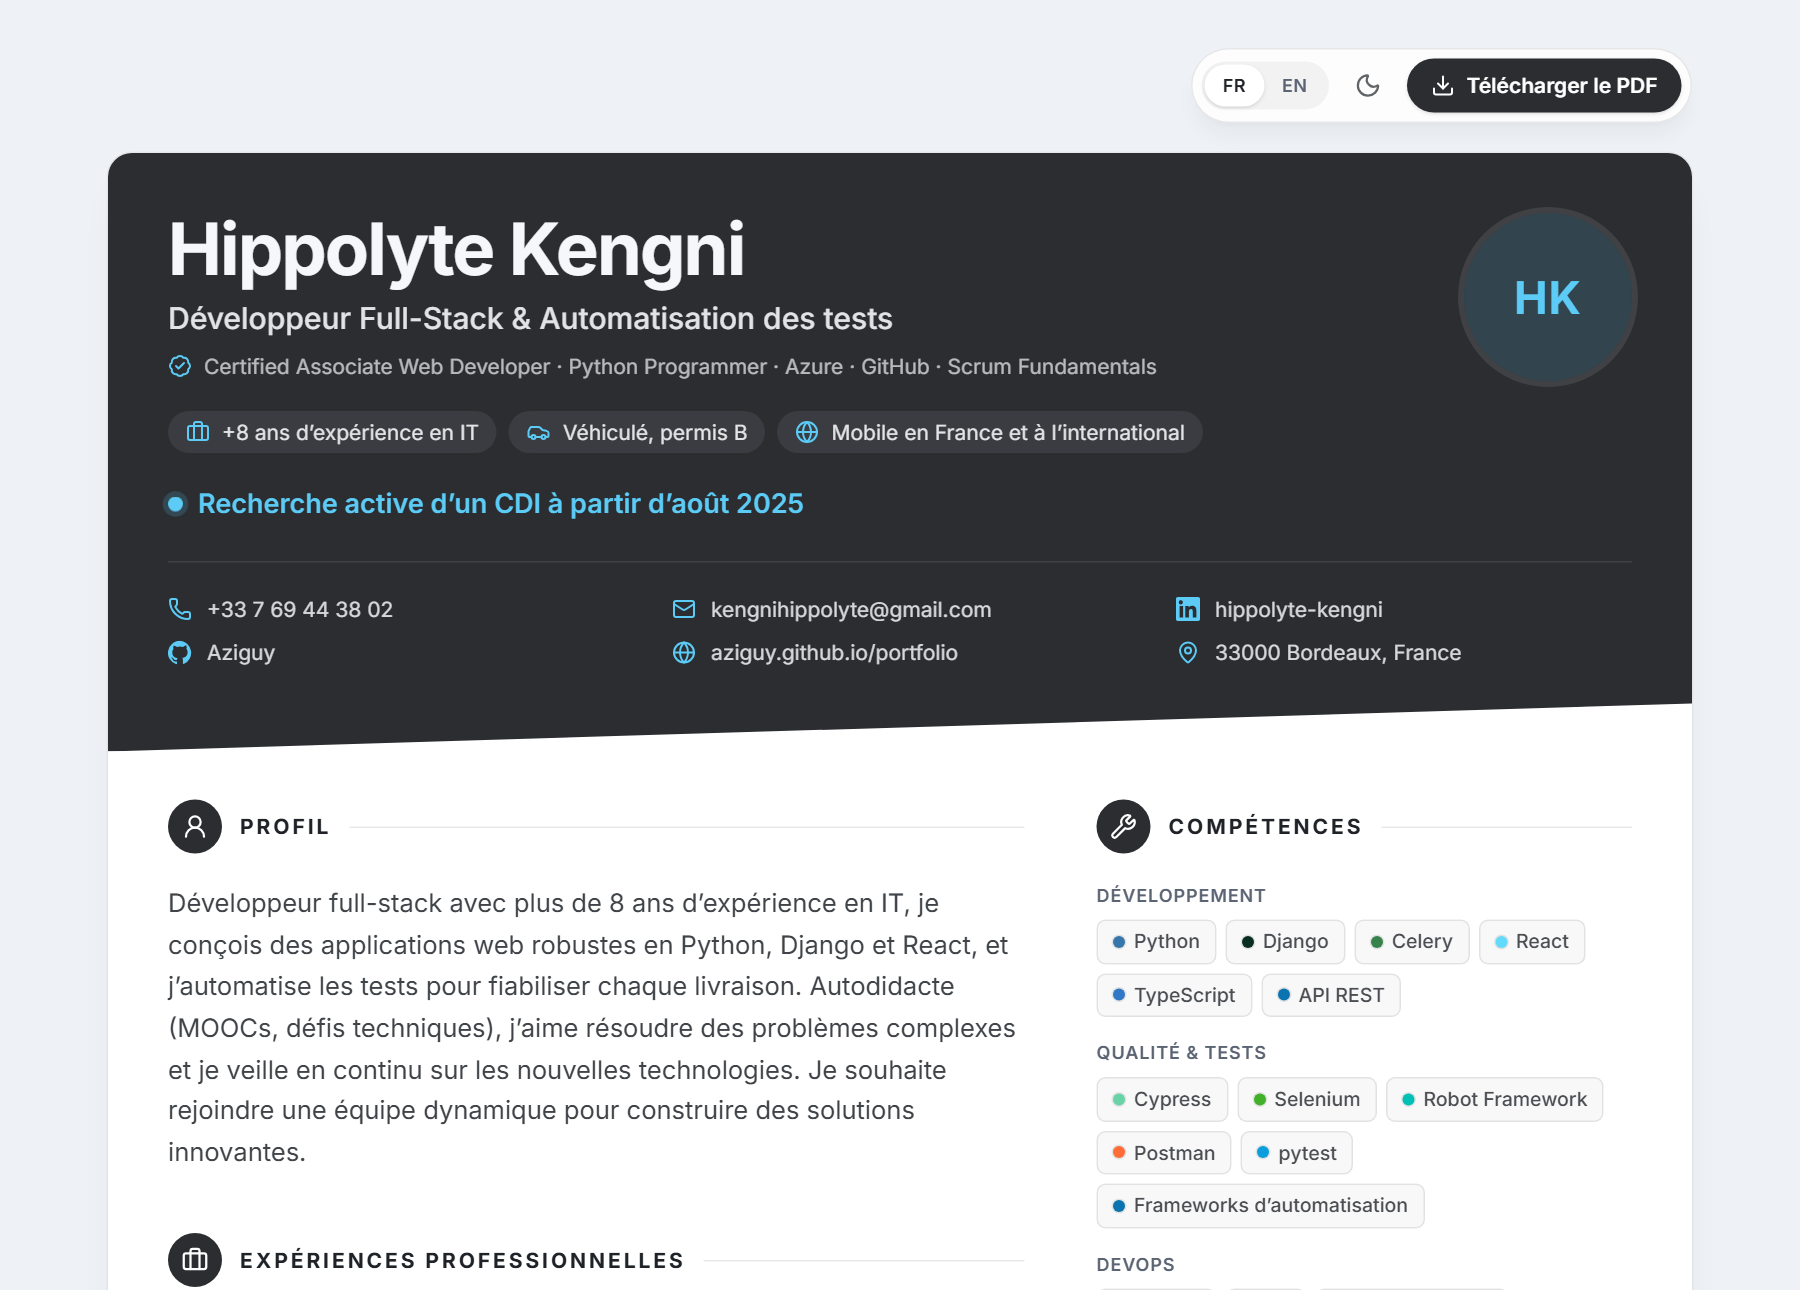
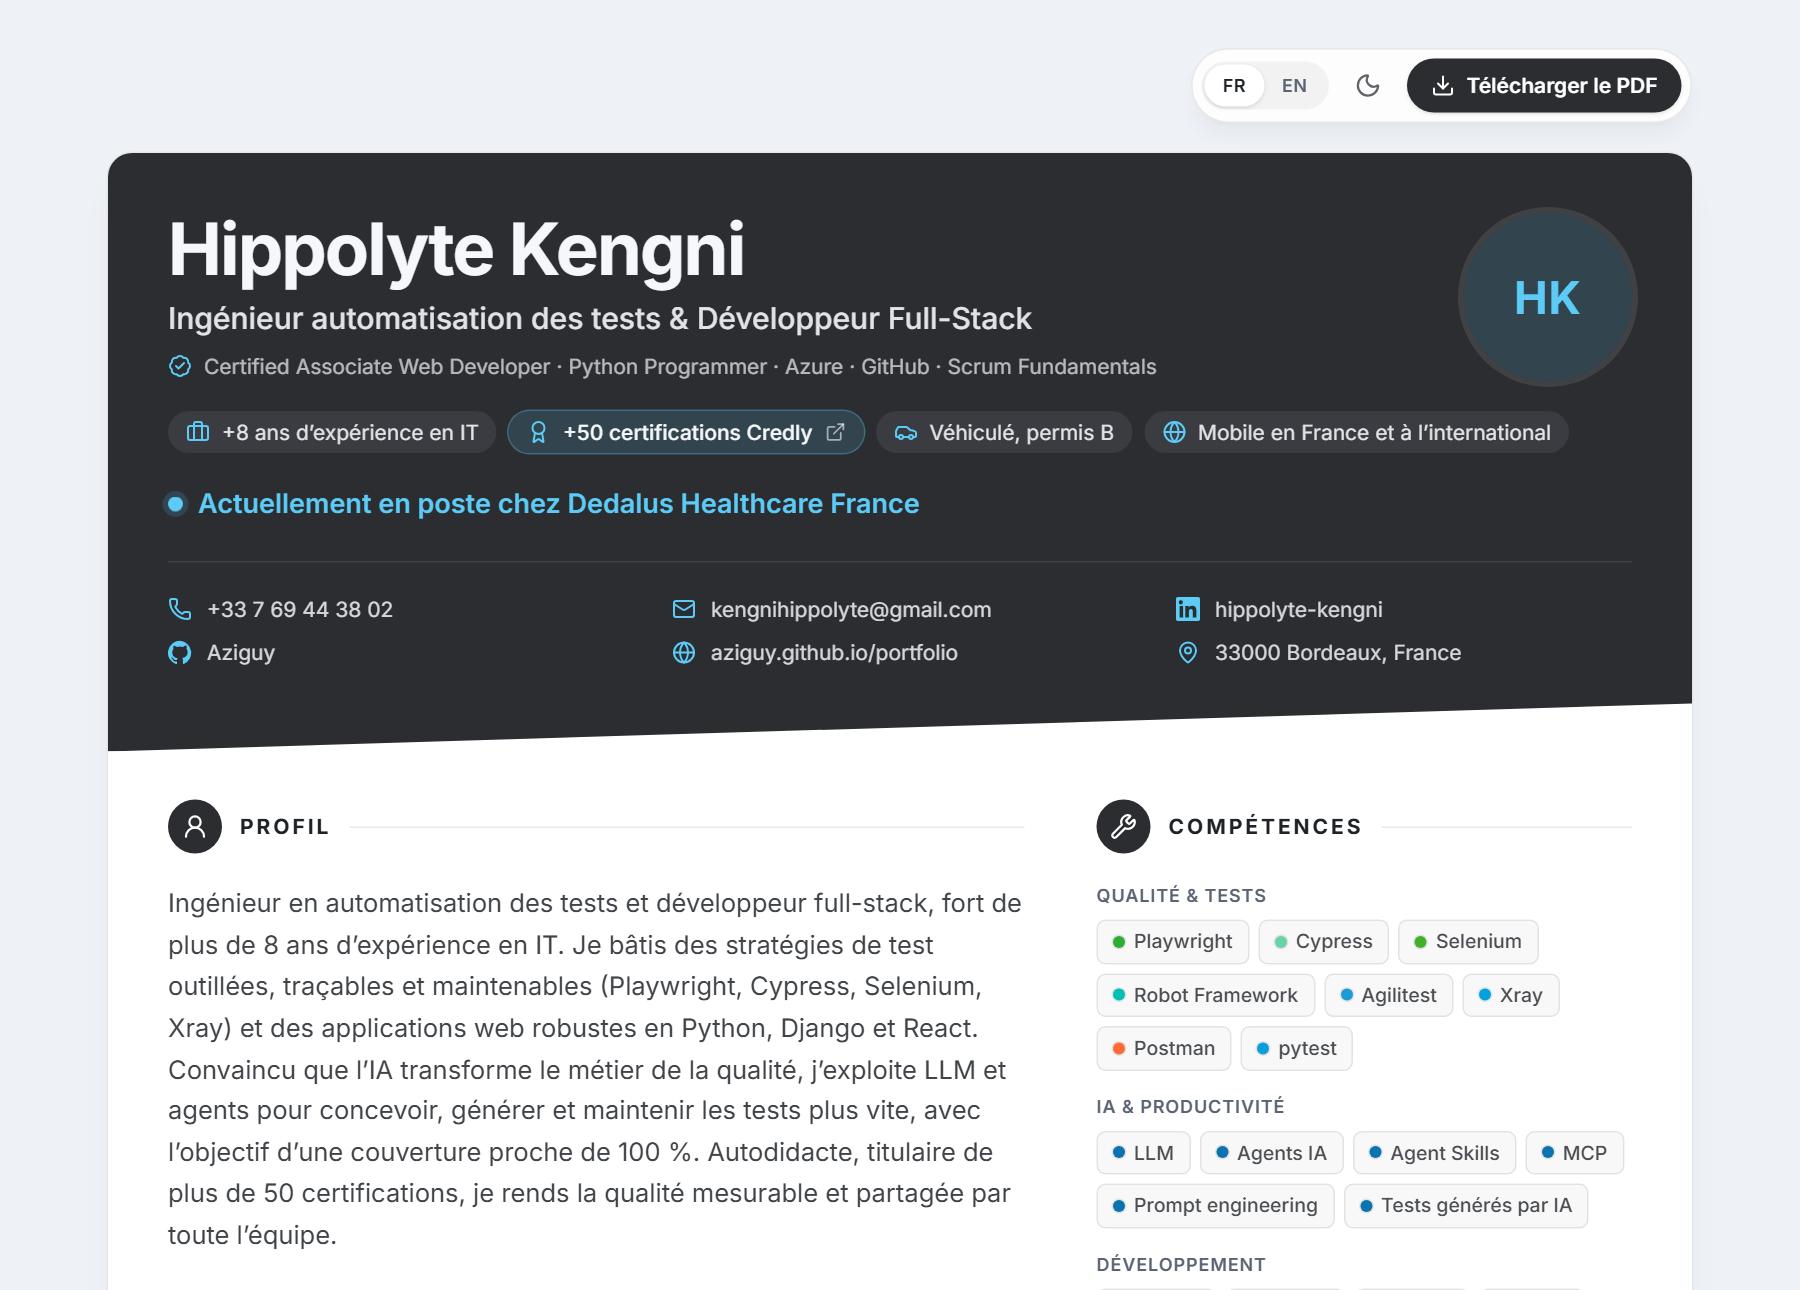
feat: poste Dedalus, compétences IA et descriptions retravaillées

diff --git a/src/config/resume.ts b/src/config/resume.ts
@@ -10,20 +10,25 @@ export const resumeConfig: ResumeConfig = {
   personal: {
     name: 'Hippolyte Kengni',
     title: {
-      fr: 'Développeur Full-Stack & Automatisation des tests',
-      en: 'Full-Stack Developer & Test Automation Engineer',
+      fr: 'Ingénieur automatisation des tests & Développeur Full-Stack',
+      en: 'Test Automation Engineer & Full-Stack Developer',
     },
     headline: {
       fr: 'Certified Associate Web Developer · Python Programmer · Azure · GitHub · Scrum Fundamentals',
       en: 'Certified Associate Web Developer · Python Programmer · Azure · GitHub · Scrum Fundamentals',
     },
     availability: {
-      fr: 'Recherche active d’un CDI à partir d’août 2025',
-      en: 'Actively looking for a permanent position from August 2025',
+      fr: 'Actuellement en poste chez Dedalus Healthcare France',
+      en: 'Currently at Dedalus Healthcare France',
     },
     location: 'Bordeaux, France',
     facts: [
       { icon: 'briefcase', label: { fr: '+8 ans d’expérience en IT', en: '8+ years in IT' } },
+      {
+        icon: 'award',
+        label: { fr: '+50 certifications Credly', en: '50+ Credly certifications' },
+        href: 'https://www.credly.com/users/hippolyte-kengni/badges/credly',
+      },
       { icon: 'car', label: { fr: 'Véhiculé, permis B', en: 'Driving licence, own car' } },
       { icon: 'globe', label: { fr: 'Mobile en France et à l’international', en: 'Open to relocation in France and abroad' } },
     ],
@@ -39,11 +44,36 @@ export const resumeConfig: ResumeConfig = {
   ],
 
   profile: {
-    fr: 'Développeur full-stack avec plus de 8 ans d’expérience en IT, je conçois des applications web robustes en Python, Django et React, et j’automatise les tests pour fiabiliser chaque livraison. Autodidacte (MOOCs, défis techniques), j’aime résoudre des problèmes complexes et je veille en continu sur les nouvelles technologies. Je souhaite rejoindre une équipe dynamique pour construire des solutions innovantes.',
-    en: 'Full-stack developer with 8+ years in IT. I build robust web applications with Python, Django and React, and automate testing to make every release reliable. Self-taught through MOOCs and coding challenges, I enjoy solving complex problems and keep up with emerging technologies. I am looking to join a dynamic team to build innovative products.',
+    fr: 'Ingénieur en automatisation des tests et développeur full-stack, fort de plus de 8 ans d’expérience en IT. Je bâtis des stratégies de test outillées, traçables et maintenables (Playwright, Cypress, Selenium, Xray) et des applications web robustes en Python, Django et React. Convaincu que l’IA transforme le métier de la qualité, j’exploite LLM et agents pour concevoir, générer et maintenir les tests plus vite, avec l’objectif d’une couverture proche de 100 %. Autodidacte, titulaire de plus de 50 certifications, je rends la qualité mesurable et partagée par toute l’équipe.',
+    en: 'Test automation engineer and full-stack developer with 8+ years in IT. I build tooled, traceable and maintainable test strategies (Playwright, Cypress, Selenium, Xray) and robust web applications with Python, Django and React. Convinced that AI is reshaping quality engineering, I use LLMs and agents to design, generate and maintain tests faster, aiming for near 100% coverage. Self-taught and holder of 50+ certifications, I make quality measurable and shared across the whole team.',
   },
 
   experiences: [
+    {
+      id: 'dedalus',
+      role: { fr: 'Ingénieur chargé de l’automatisation des tests', en: 'Test Automation Engineer' },
+      company: 'Dedalus Healthcare France',
+      period: { start: '2025-10', end: 'present' },
+      summary: {
+        fr: 'Référent automatisation sur des logiciels de santé : je fais évoluer la stratégie de test vers un modèle outillé, traçable et augmenté par l’IA.',
+        en: 'Automation lead on healthcare software, evolving the test strategy towards a tooled, traceable and AI-augmented model.',
+      },
+      highlights: {
+        fr: [
+          'Maintien et fiabilisation du référentiel de tests automatisés construit avec Agilitest',
+          'Conception d’une méthodologie de test pour structurer un référentiel unique et traçable dans Xray (exigences, cas de test, campagnes)',
+          'Étude et proposition de nouvelles solutions d’automatisation (Playwright, Cypress) pour accélérer et pérenniser les campagnes',
+          'Démarche d’IA appliquée aux tests (LLM, agents) pour générer et revoir les cas de test, gagner en productivité et viser une couverture proche de 100 %',
+        ],
+        en: [
+          'Maintain and harden the automated test repository built with Agilitest',
+          'Designed a test methodology to build a single, traceable test repository in Xray (requirements, test cases, executions)',
+          'Assess and propose new automation solutions (Playwright, Cypress) to speed up and future-proof test campaigns',
+          'Drive AI-assisted testing (LLMs, agents) to generate and review test cases, boost productivity and target near 100% coverage',
+        ],
+      },
+      techs: ['Agilitest', 'Xray', 'Jira', 'Playwright', 'Cypress', 'TypeScript', 'LLM'],
+    },
     {
       id: 'lectra-april',
       role: { fr: 'Ingénieur automatisation des tests', en: 'Test Automation Engineer' },
@@ -52,16 +82,16 @@ export const resumeConfig: ResumeConfig = {
       period: { start: '2024-09', end: '2025-07' },
       highlights: {
         fr: [
-          'Définition des stratégies de test (TNR, tests exploratoires, jeux de données) pour fiabiliser les livrables',
-          'Conception de tests E2E automatisés pour les applications web avec Cypress, Selenium et Cucumber',
-          'Revues de PR/MR et documentation des processus de test en environnement Agile',
-          'Intégration continue et suivi qualité via Jenkins, GitHub Actions et GitLab CI',
+          'Stratégies de test définies de bout en bout (non-régression, tests exploratoires, jeux de données) pour sécuriser chaque livraison',
+          'Suites E2E automatisées sur les applications web avec Cypress, Selenium et Cucumber (BDD)',
+          'Revues de PR/MR et documentation des processus de test au sein d’équipes Agile',
+          'Tests intégrés aux pipelines CI/CD (Jenkins, GitHub Actions, GitLab CI) avec reporting Allure',
         ],
         en: [
-          'Defined test strategies (regression, exploratory testing, test data) to secure deliverables',
-          'Designed automated E2E tests for web applications with Cypress, Selenium and Cucumber',
-          'Reviewed PRs/MRs and documented test processes in an Agile setting',
-          'Drove continuous integration and quality tracking with Jenkins, GitHub Actions and GitLab CI',
+          'Defined end-to-end test strategies (regression, exploratory testing, test data) to secure every release',
+          'Built automated E2E suites for web applications with Cypress, Selenium and Cucumber (BDD)',
+          'Reviewed PRs/MRs and documented test processes within Agile teams',
+          'Integrated tests into CI/CD pipelines (Jenkins, GitHub Actions, GitLab CI) with Allure reporting',
         ],
       },
       techs: ['Cypress', 'TypeScript', 'Selenium', 'Cucumber', 'Python', 'C#', 'Allure', 'Git'],
@@ -74,16 +104,16 @@ export const resumeConfig: ResumeConfig = {
       period: { start: '2021-11', end: '2024-11' },
       highlights: {
         fr: [
-          'Développement d’API REST avec Django REST Framework et PostgreSQL, selon les principes SOLID et KISS',
-          'Tests des web services avec Bruno et pytest (collections, environnements)',
-          'Documentation complète de l’API avec Hugo et formation des développeurs juniors',
-          'Pipelines CI/CD (GitHub Actions, Jenkins, Docker) pour automatiser build, tests et déploiements',
+          'Conception d’API REST robustes et sécurisées (Django REST Framework, PostgreSQL) selon les principes SOLID et KISS',
+          'Fiabilité des web services garantie par des tests automatisés pytest et des collections Bruno',
+          'Documentation complète de l’API avec Hugo et montée en compétence des développeurs juniors',
+          'Pipelines CI/CD (GitHub Actions, Jenkins, Docker) automatisant build, tests et déploiements',
         ],
         en: [
-          'Built REST APIs with Django REST Framework and PostgreSQL following SOLID and KISS principles',
-          'Tested web services with Bruno and pytest (collections, environments)',
-          'Wrote the full API documentation with Hugo and onboarded junior developers',
-          'Set up CI/CD pipelines (GitHub Actions, Jenkins, Docker) to automate build, test and deployment',
+          'Designed robust, secure REST APIs (Django REST Framework, PostgreSQL) following SOLID and KISS principles',
+          'Ensured web service reliability with automated pytest suites and Bruno collections',
+          'Wrote the full API documentation with Hugo and coached junior developers',
+          'Built CI/CD pipelines (GitHub Actions, Jenkins, Docker) automating build, test and deployment',
         ],
       },
       techs: ['Python', 'Django', 'Django REST Framework', 'PostgreSQL', 'Docker', 'GitHub Actions', 'PHP', 'WordPress'],
@@ -96,15 +126,15 @@ export const resumeConfig: ResumeConfig = {
       period: { start: '2018-12', end: '2022-10' },
       highlights: {
         fr: [
-          'Pilotage de l’assurance qualité et de l’automatisation des tests sur les projets clients',
+          'Pilotage de l’assurance qualité et de l’automatisation des tests sur l’ensemble des projets clients',
           'Temps de test réduit de plus de 20 % grâce à des scripts Selenium et Robot Framework',
-          'Tests E2E avec Cypress pour valider l’ensemble des composants applicatifs',
+          'Tests E2E Cypress couvrant l’ensemble des composants applicatifs',
           'Suites de tests d’API Postman intégrées aux pipelines CI/CD, avec rapports détaillés',
         ],
         en: [
-          'Led quality assurance and test automation across client projects',
+          'Led quality assurance and test automation across all client projects',
           'Cut testing time by over 20% with Selenium and Robot Framework scripts',
-          'Ran E2E tests with Cypress to validate every application component',
+          'Covered every application component with Cypress E2E tests',
           'Built Postman API test suites integrated into CI/CD pipelines with detailed reports',
         ],
       },
@@ -161,12 +191,23 @@ export const resumeConfig: ResumeConfig = {
 
   skills: [
     {
-      title: { fr: 'Développement', en: 'Development' },
-      items: ['Python', 'Django', 'Celery', 'React', 'TypeScript', { fr: 'API REST', en: 'REST APIs' }],
+      title: { fr: 'Qualité & tests', en: 'Quality & testing' },
+      items: ['Playwright', 'Cypress', 'Selenium', 'Robot Framework', 'Agilitest', 'Xray', 'Postman', 'pytest'],
     },
     {
-      title: { fr: 'Qualité & tests', en: 'Quality & testing' },
-      items: ['Cypress', 'Selenium', 'Robot Framework', 'Postman', 'pytest', { fr: 'Frameworks d’automatisation', en: 'Automation frameworks' }],
+      title: { fr: 'IA & productivité', en: 'AI & productivity' },
+      items: [
+        'LLM',
+        { fr: 'Agents IA', en: 'AI agents' },
+        'Agent Skills',
+        'MCP',
+        'Prompt engineering',
+        { fr: 'Tests générés par IA', en: 'AI-generated tests' },
+      ],
+    },
+    {
+      title: { fr: 'Développement', en: 'Development' },
+      items: ['Python', 'Django', 'Celery', 'React', 'TypeScript', { fr: 'API REST', en: 'REST APIs' }],
     },
     {
       title: { fr: 'DevOps', en: 'DevOps' },
@@ -174,7 +215,7 @@ export const resumeConfig: ResumeConfig = {
     },
     {
       title: { fr: 'Méthodes', en: 'Methods' },
-      items: ['Scrum', 'Agile', { fr: 'Gestion de projet', en: 'Project management' }],
+      items: ['Scrum', 'Agile', 'BDD', { fr: 'Gestion de projet', en: 'Project management' }],
     },
   ],
 
@@ -193,9 +234,9 @@ export const resumeConfig: ResumeConfig = {
   ],
 
   seo: {
-    title: 'Hippolyte Kengni · Développeur Full-Stack & QA Automation',
+    title: 'Hippolyte Kengni · Ingénieur automatisation des tests & Développeur Full-Stack',
     description:
-      'CV interactif d’Hippolyte Kengni, développeur full-stack Python/Django/React et ingénieur en automatisation des tests (Cypress, Selenium), basé à Bordeaux.',
+      'CV interactif d’Hippolyte Kengni, ingénieur en automatisation des tests (Playwright, Cypress, Xray, IA) et développeur full-stack Python/Django/React, basé à Bordeaux.',
     url: 'https://aziguy.github.io/interactive-resume-template/',
   },
 
